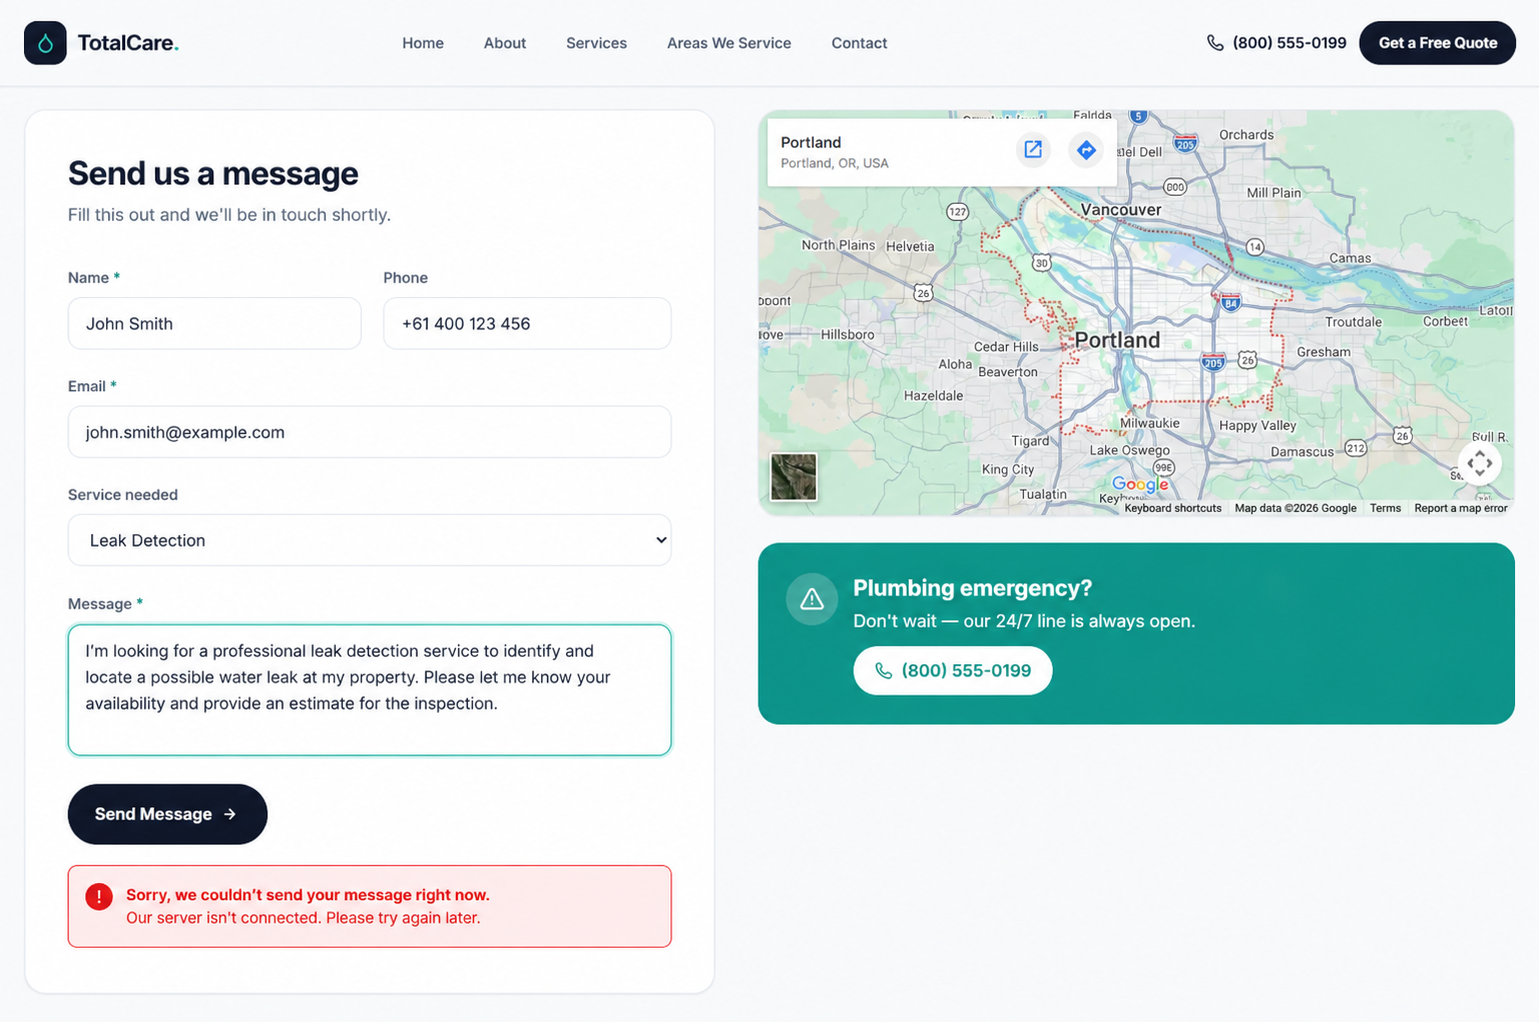
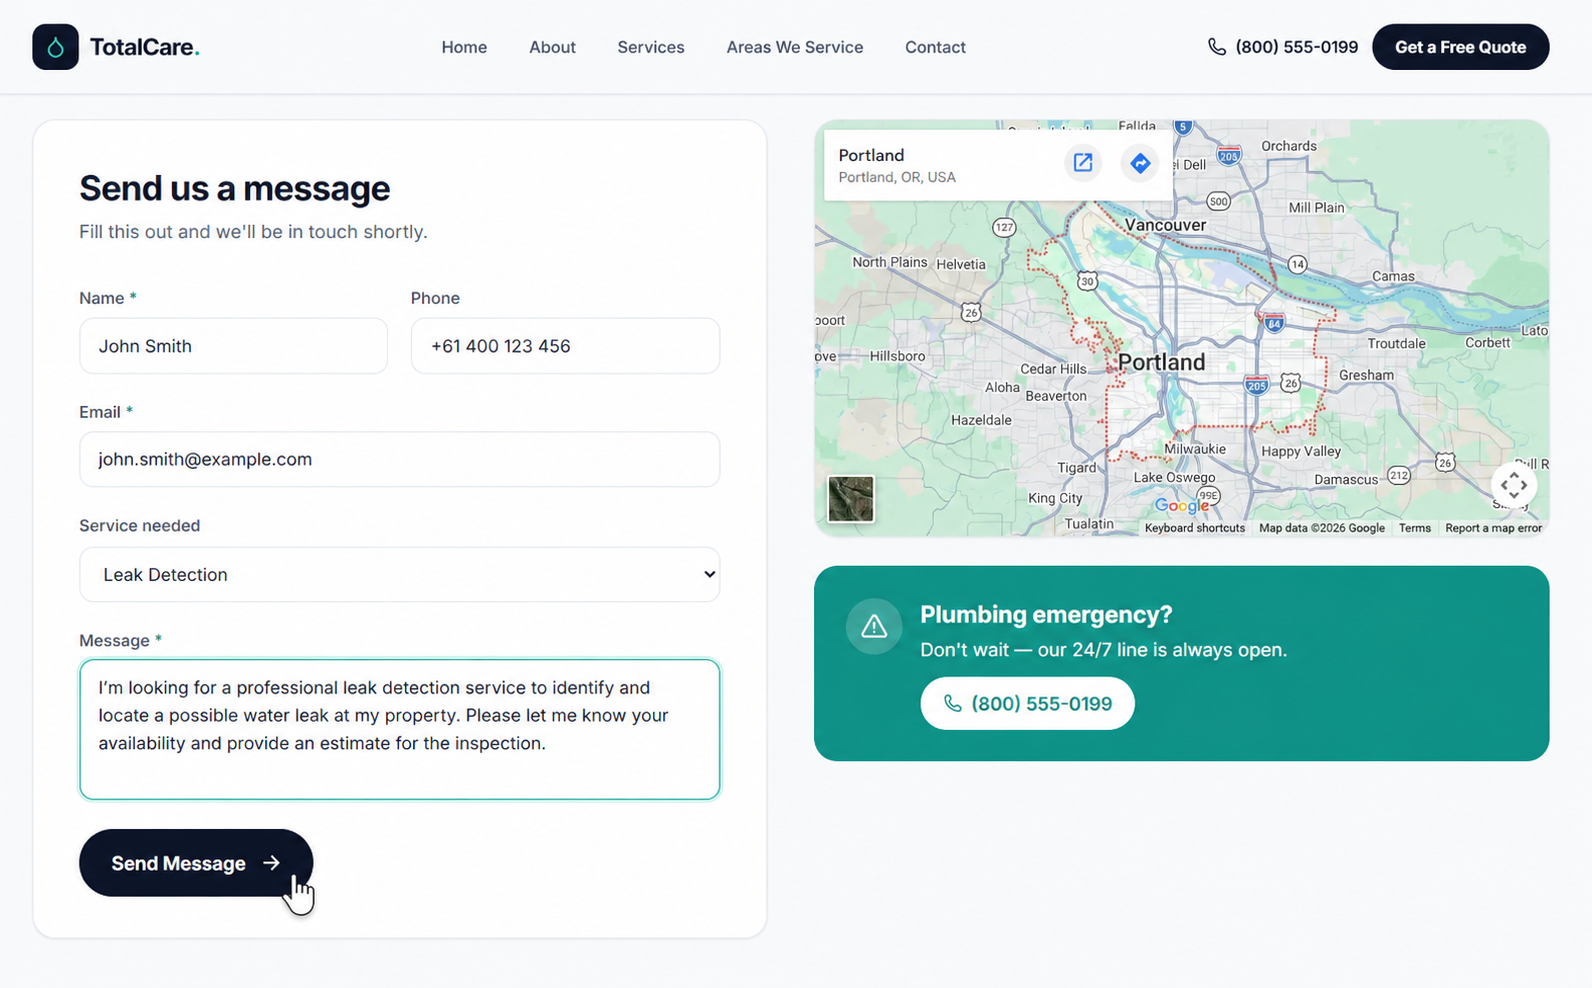
update emergent-web-backend-integration

diff --git a/emergent-web-backend-integration/README.md b/emergent-web-backend-integration/README.md
@@ -20,15 +20,15 @@ The website looks ready to use, but the form submission is not yet connected to 
 
 <p align="center">
   <a href="./assets/website.png">
-    <img src="./assets/website.png" alt="Website before connecting SmartFormify" width="33%">
+    <img src="./assets/website.png" alt="Website before connecting SmartFormify" width="30%">
   </a>
   &nbsp;&nbsp;
   <a href="./assets/website-body.png">
-    <img src="./assets/website-body.png" alt="Website form before connecting SmartFormify" width="33%">
+    <img src="./assets/website-body.png" alt="Website form before connecting SmartFormify" width="30%">
   </a>
   &nbsp;&nbsp;
   <a href="./assets/website-map.png">
-    <img src="./assets/website-map.png" alt="Website map before connecting SmartFormify" width="33%">
+    <img src="./assets/website-map.png" alt="Website map before connecting SmartFormify" width="30%">
   </a>
 </p>
 
@@ -45,7 +45,7 @@ When a user triggers **Submit**, the application will:
 
 <p align="center">
   <a href="./assets/form-error.png">
-    <img src="./assets/form-error.png" alt="Form Submission Error" width="50%">
+    <img src="./assets/form-error.png" alt="Form Submission Error" width="47%">
   </a>
 </p>
 
@@ -55,6 +55,16 @@ When a user triggers **Submit**, the application will:
 
 Linking your form actions to **Smartformify** establishes an instant, robust pipeline for capturing client responses.
 
+<p align="center">
+  <a href="./assets/form-data.png">
+    <img src="./assets/form-data.png" alt="Form Submission Data" width="47%">
+  </a>
+  &nbsp;&nbsp;
+  <a href="./assets/form-success.png">
+    <img src="./assets/form-success.png" alt="Form Submission Success" width="47%">
+  </a>
+</p>
+
 Once configured:
 
 * ✅ Submissions go through successfully
@@ -62,11 +72,6 @@ Once configured:
 * ✅ Data saves and organizes automatically
 * ✅ Messages are easy to track in one central dashboard
 
-<p align="center">
-  <a href="./assets/form-success.png">
-    <img src="./assets/form-success.png" alt="Form Submission Success" width="47%">
-  </a>
-</p>
 
 [![Smartformify Dashboard](./assets/dashboard.png)](./assets/dashboard.png)
 
